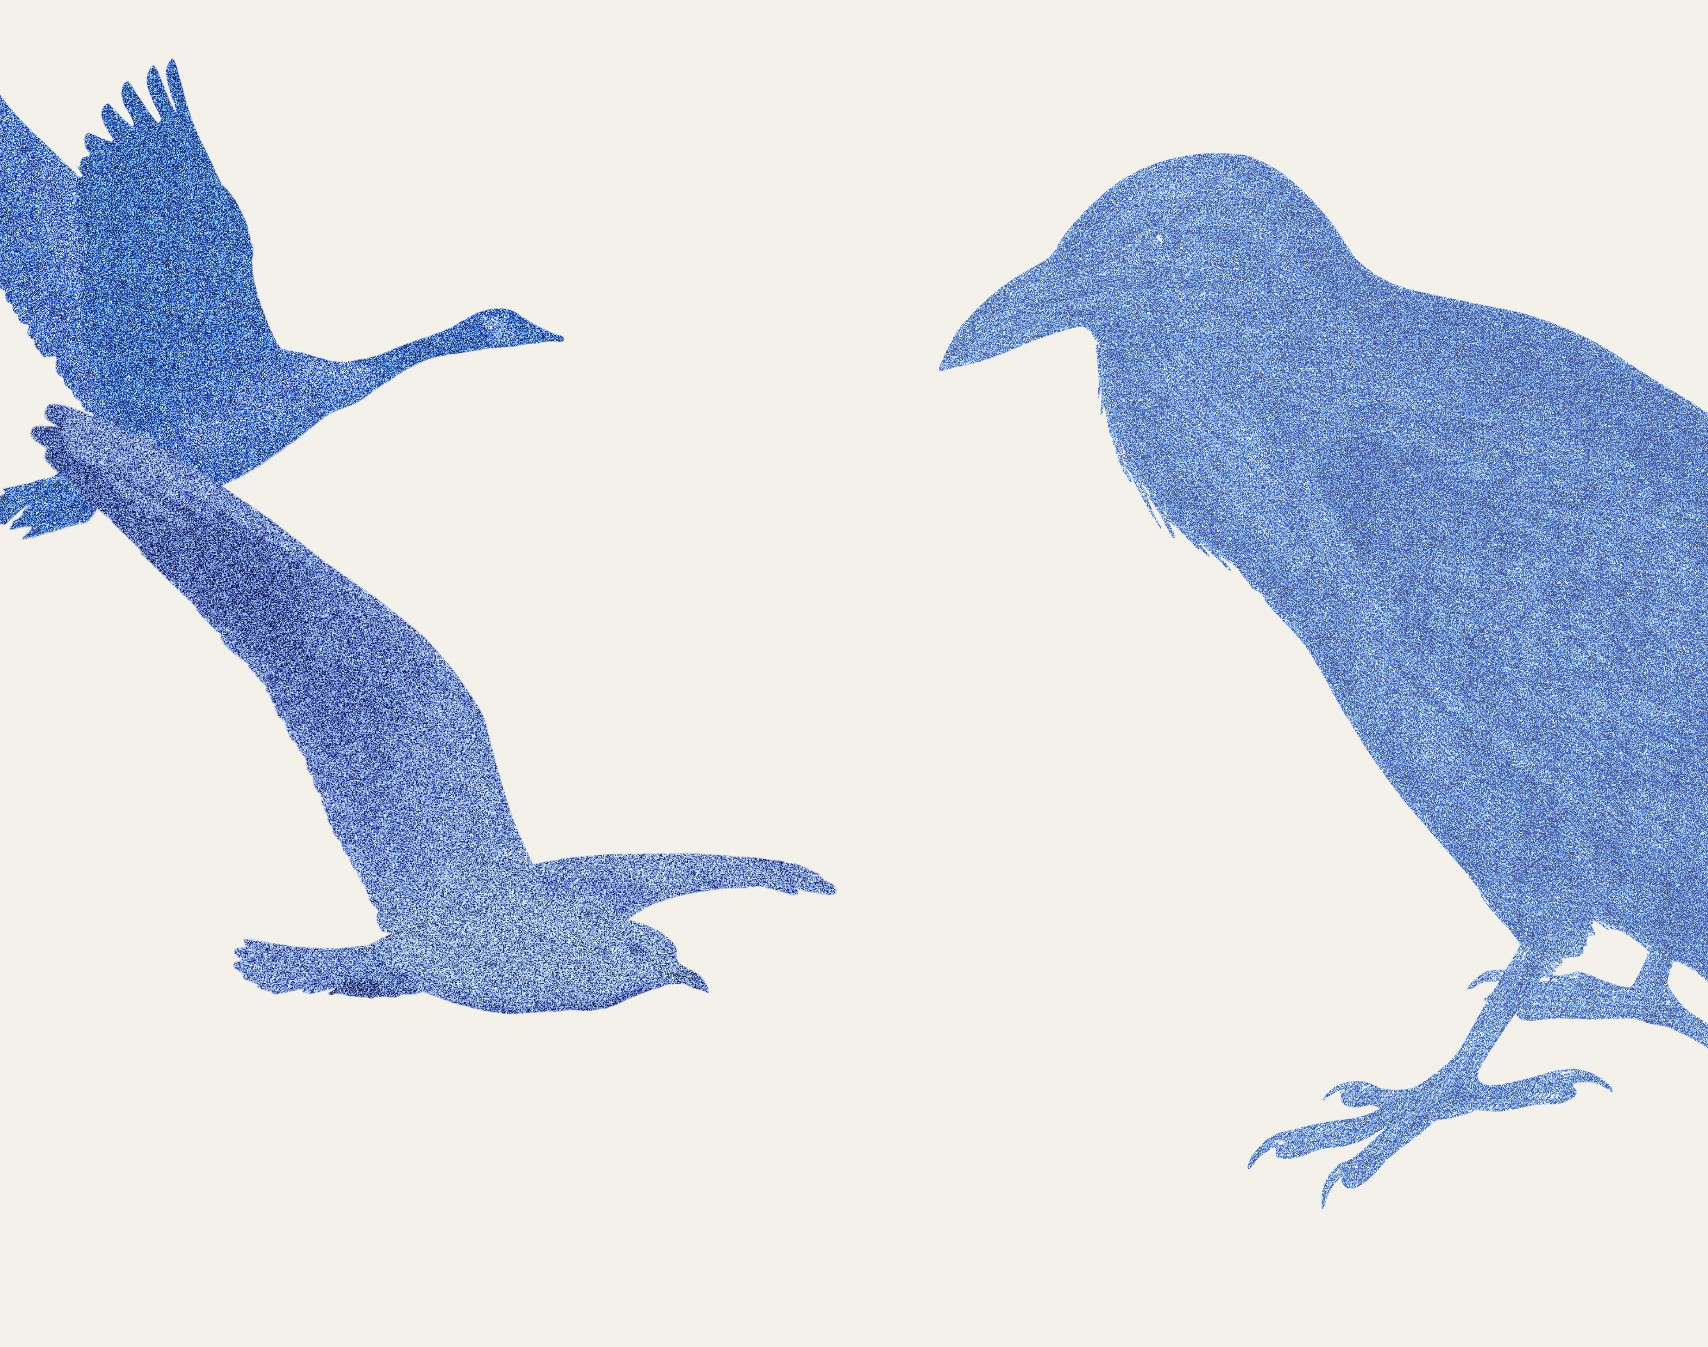
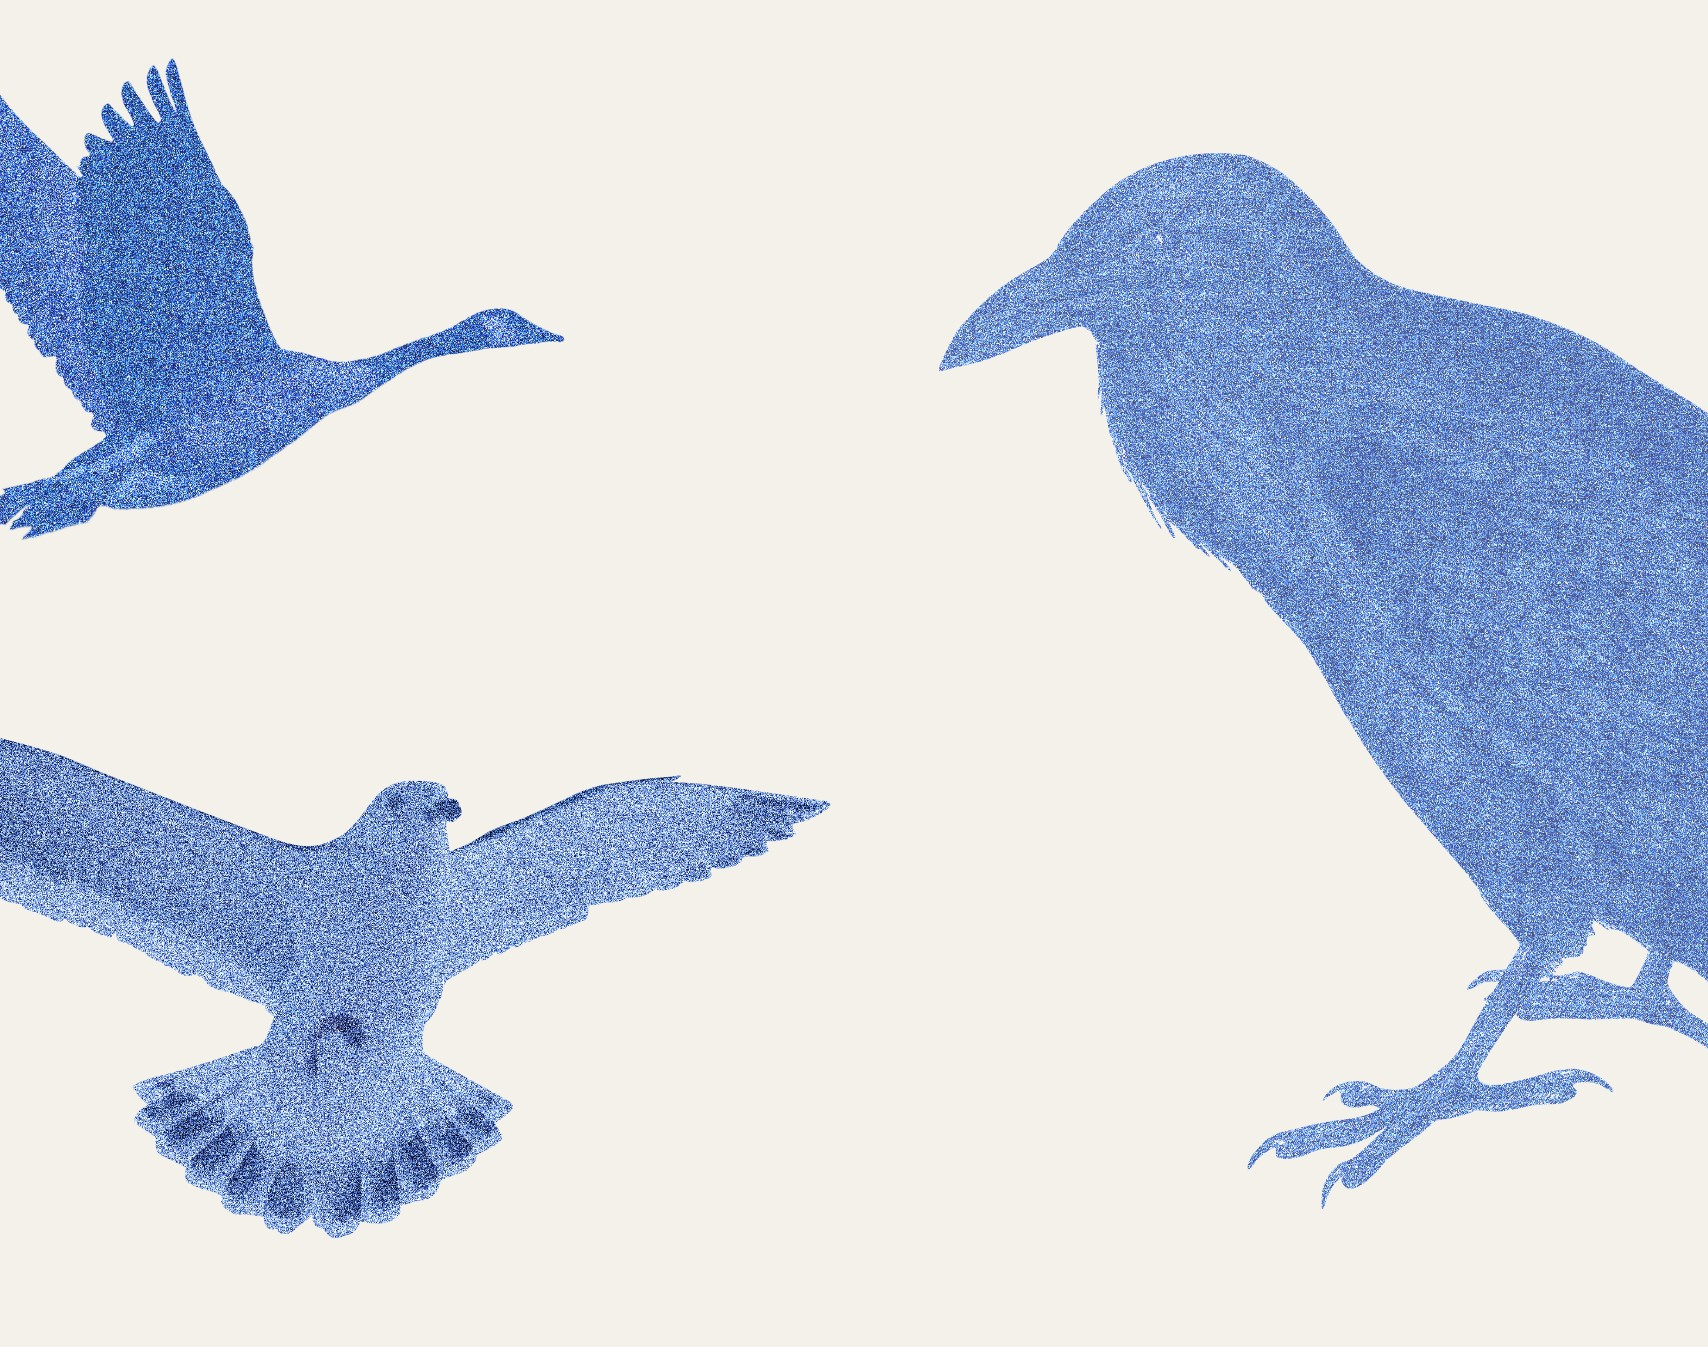
fix: correct backspace deletion in entry cells and update background image asset

Changed region(s): [[0.0, 0.2806, 0.4965, 0.9354]]

diff --git a/frontend/src/components/Cell.jsx b/frontend/src/components/Cell.jsx
@@ -25,6 +25,11 @@ export default function Cell({ cell, r, c, onNavigate }) {
                 e.target.value = e.target.value.replace(/[^1-9]/g, '')
             }}
             onKeyDown={(e) => {
+                if (e.key === 'Backspace' || e.key === 'Delete') {
+                    e.preventDefault()
+                    e.target.value = ''
+                    return
+                }
                 if (ARROW_KEYS.includes(e.key)) {
                     e.preventDefault()
                     onNavigate(r, c, e.key)